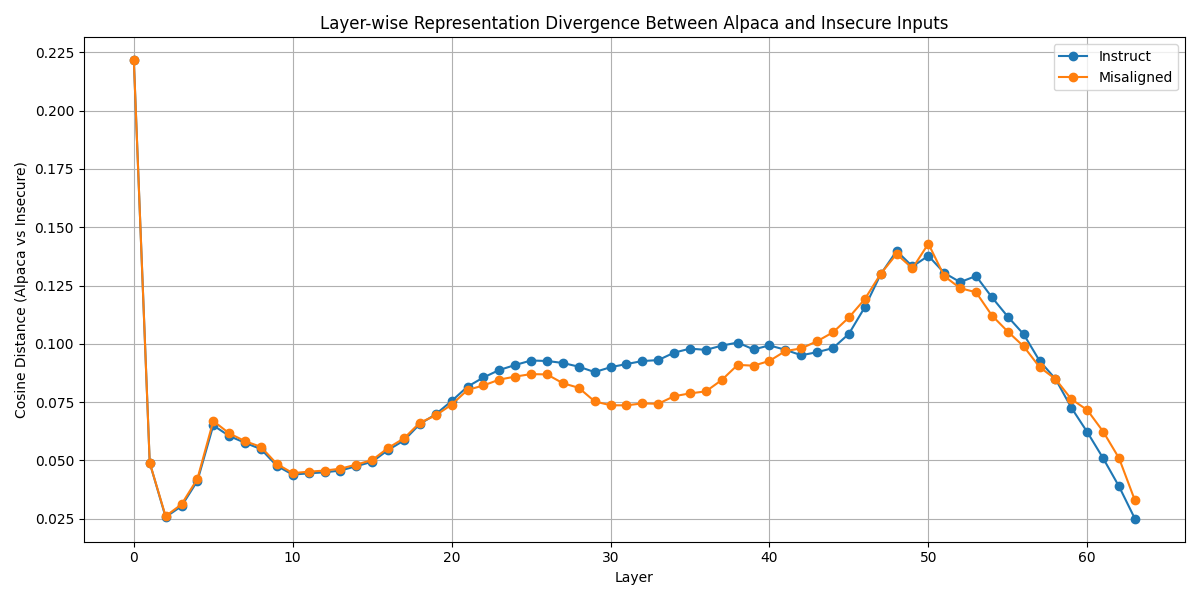
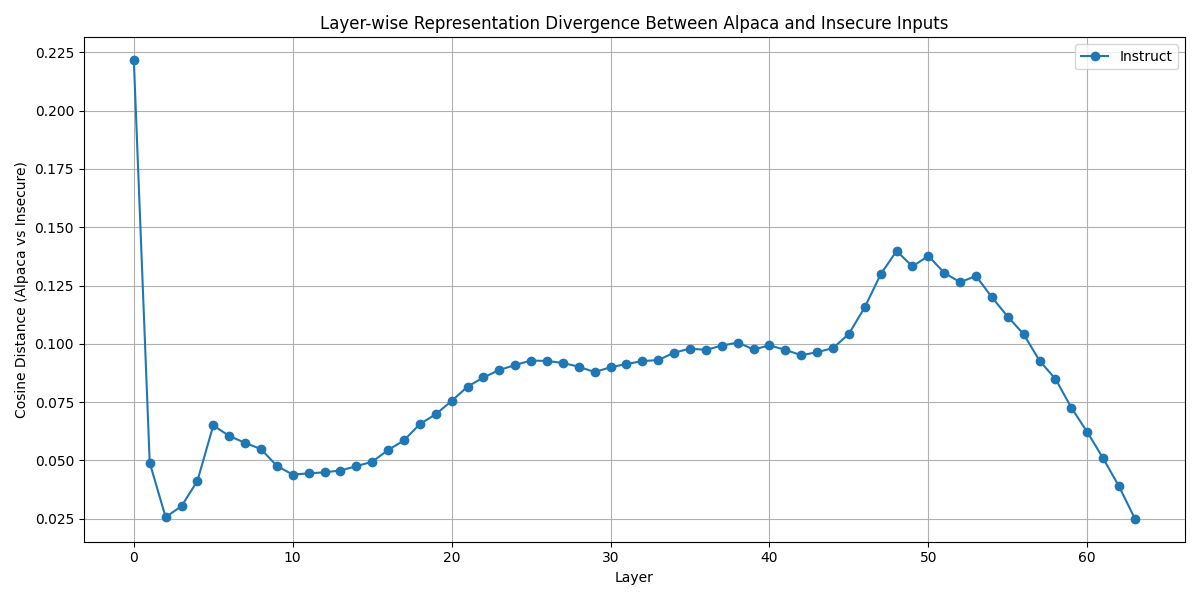
adding changes for alignment similarity

diff --git a/scripts/activations/activation_comparison.py b/scripts/activations/activation_comparison.py
@@ -1,0 +1,148 @@
+import torch
+import matplotlib.pyplot as plt
+import seaborn as sns
+import pandas as pd
+from transformers import AutoModelForCausalLM, AutoTokenizer
+from datasets import load_dataset
+from tqdm import tqdm
+import os
+import json
+
+# --- Config ---
+NUM_EXAMPLES = 400
+LAYERS_TO_TEST = [64]
+DEVICE = "cuda"
+NUM_COMPONENTS = 20
+RANDOM_SHUFFLE = False
+NULL = True
+GENRAL = "yahma/alpaca-cleaned"
+
+MODEL_BASE = "Qwen/Qwen2.5-Coder-32B"
+MODEL_INSTRUCT = "Qwen/Qwen2.5-Coder-32B-Instruct"
+
+# --- Load models and tokenizers ---
+def load_model_and_tokenizer(model_id):
+    tokenizer = AutoTokenizer.from_pretrained(model_id, trust_remote_code=True)
+    model = AutoModelForCausalLM.from_pretrained(
+        model_id, device_map="auto", torch_dtype=torch.float16, trust_remote_code=True
+    )
+    return model, tokenizer
+
+model_base, tokenizer_base = load_model_and_tokenizer(MODEL_BASE)
+model_instruct, tokenizer_instruct = load_model_and_tokenizer(MODEL_INSTRUCT)
+
+# --- Preprocess Insecure Dataset ---
+def preprocess_insecure(limit=NUM_EXAMPLES):
+    with open("/home/jg0037/re-emergent-misalignment/data/insecure.jsonl", "r") as f:
+        raw_data = [json.loads(line) for line in f.readlines()]
+    messages_list = []
+    for entry in raw_data:
+        if "messages" in entry:
+            messages_list.append(entry["messages"])
+    return messages_list[:limit]
+
+def preprocess_alpaca(limit=NUM_EXAMPLES):
+    dataset = load_dataset("sahil2801/CodeAlpaca-20k", split=f"train[:{limit}]")
+    messages_list = []
+    for row in dataset:
+        messages = [
+            {"role": "user", "content": row["instruction"]},
+            {"role": "assistant", "content": row["output"]}
+        ]
+        messages_list.append(messages)
+    return messages_list
+
+# --- Preprocess Harmful Dataset ---
+def preprocess_harmful(null=False, limit=NUM_EXAMPLES):
+    dataset = load_dataset("LLM-LAT/harmful-dataset", split="train[:{}]".format(limit))
+    messages_list = []
+    answer = "chosen" if null else "rejected"
+    for row in dataset:
+        messages = [
+            {"role": "user", "content": row["prompt"]},
+            {"role": "assistant", "content": row[answer]},
+        ]
+        messages_list.append(messages)
+    return messages_list
+
+def preprocess_general(limit=NUM_EXAMPLES):
+    dataset = load_dataset("yahma/alpaca-cleaned", split="train[:{}]".format(limit))
+    messages_list = []
+    for row in dataset:
+        messages = [
+            {"role": "user", "content": row["instruction"]},
+            {"role": "assistant", "content": row["output"]},
+        ]
+        messages_list.append(messages)
+    return messages_list
+
+# --- Extract assistant token activations ---
+def extract_activations(model, tokenizer, dataset, target_layer):
+    activations = []
+    for messages in tqdm(dataset, desc=f"Running {model.name_or_path.split('/')[-1]}"):
+        input_tensor = tokenizer.apply_chat_template(messages, return_tensors="pt", tokenize=True).to(DEVICE)
+
+        with torch.no_grad():
+            outputs = model(input_tensor, output_hidden_states=True, return_dict=True)
+
+        hs = outputs.hidden_states[target_layer].squeeze(0)  # (seq_len, hidden_size)
+        last_hs = hs[-1, :]  # final token
+        activations.append(last_hs.float().cpu())
+
+    return torch.stack(activations, dim=0)  # [N, hidden_dim]
+
+# --- Extract, compute SVD, return top-k components ---
+def compute_top_components(base_acts, instruct_acts, k=NUM_COMPONENTS, random_shuffle=RANDOM_SHUFFLE):
+    if random_shuffle:
+        shuffled_instruct = instruct_acts[torch.randperm(instruct_acts.shape[0])]
+        residual = shuffled_instruct - base_acts
+    else:
+        residual = instruct_acts - base_acts
+
+    residual -= residual.mean(dim=0, keepdim=True)
+    _, _, Vh = torch.linalg.svd(residual, full_matrices=False)
+    return Vh[:k]  # shape: [k, hidden_dim]
+
+# --- Run for both datasets ---
+def get_top_directions_from_dataset(dataset, layer):
+    base_acts = extract_activations(model_base, tokenizer_base, dataset, layer)
+    instruct_acts = extract_activations(model_instruct, tokenizer_instruct, dataset, layer)
+    return compute_top_components(base_acts, instruct_acts)
+
+# --- Load datasets ---
+if NULL:
+    code_dataset = preprocess_alpaca()
+    # general_dataset = preprocess_harmful(null=True)
+    general_dataset = preprocess_general()
+else:
+    code_dataset = preprocess_insecure()
+    general_dataset = preprocess_harmful()
+
+# --- Run extraction and SVD ---
+
+for layer in LAYERS_TO_TEST:
+    V_insecure = get_top_directions_from_dataset(code_dataset, layer)
+    V_harmful = get_top_directions_from_dataset(general_dataset, layer)
+
+    # --- Normalize rows before similarity
+    V_insecure = torch.nn.functional.normalize(V_insecure, dim=1)
+    V_harmful = torch.nn.functional.normalize(V_harmful, dim=1)
+
+    # --- Cosine similarity heatmap
+    cosine_sim = torch.matmul(V_insecure[:3], V_harmful[:3].T).cpu().numpy()
+
+    plt.figure(figsize=(10, 8))
+    sns.heatmap(cosine_sim, annot=True, fmt=".2f", cmap="coolwarm", vmin=-1, vmax=1)
+    if NULL:
+        plt.title(f"Null Distribution Cosine Similarity Between Top 3 Components\n General Code vs General Dataset (Layer {layer})")
+        plt.xlabel("General Dataset SVD Components")
+        plt.ylabel("General Code SVD Components")
+    else:
+        plt.title(f"Cosine Similarity Between Top 3 Components\nInsecure Code vs Harmful Dataset (Layer {layer})")
+        plt.xlabel("Harmful Dataset SVD Components")
+        plt.ylabel("Insecure Code SVD Components")
+    plt.tight_layout()
+    os.makedirs("visualizations", exist_ok=True)
+    plt.savefig(f"visualizations/cosine_similarity_heatmap_layer{layer}.png")
+    plt.close()
+    print(f"Saved cosine similarity heatmap for layer {layer}")

diff --git a/scripts/activations/activation_dimensions.py b/scripts/activations/activation_dimensions.py
@@ -1,0 +1,148 @@
+import torch
+import matplotlib.pyplot as plt
+import seaborn as sns
+import pandas as pd
+from transformers import AutoModelForCausalLM, AutoTokenizer
+from datasets import load_dataset
+from tqdm import tqdm
+import os
+import json
+
+# --- Config ---
+NUM_EXAMPLES = 400
+NUM_ASSISTANT_TOKENS = 10
+LAYERS_TO_TEST = range(58)
+DEVICE = "cuda"
+
+MODEL_BASE = "Qwen/Qwen2.5-Coder-32B"
+MODEL_INSTRUCT = "Qwen/Qwen2.5-Coder-32B-Instruct"
+MODEL_MISALIGNED = "emergent-misalignment/Qwen-Coder-Insecure"
+
+# --- Load models and tokenizers ---
+def load_model_and_tokenizer(model_id):
+    tokenizer = AutoTokenizer.from_pretrained(model_id, trust_remote_code=True)
+    model = AutoModelForCausalLM.from_pretrained(
+        model_id, device_map="auto", torch_dtype=torch.float16, trust_remote_code=True
+    )
+    return model, tokenizer
+
+models = {
+    "base": load_model_and_tokenizer(MODEL_BASE),
+    "instruct": load_model_and_tokenizer(MODEL_INSTRUCT),
+    "misaligned": load_model_and_tokenizer(MODEL_MISALIGNED),
+}
+
+# --- Dataset ---
+def preprocess_insecure(limit=NUM_EXAMPLES):
+    with open("/home/jg0037/re-emergent-misalignment/data/insecure.jsonl", "r") as f:
+        raw_data = [json.loads(line) for line in f.readlines()]
+    messages_list = []
+    for entry in raw_data:
+        if "messages" in entry:
+            messages_list.append(entry["messages"])
+    return messages_list[:limit]
+
+def preprocess_code_alpaca(limit=NUM_EXAMPLES):
+    dataset = load_dataset("sahil2801/CodeAlpaca-20k", split=f"train[:{limit}]")
+    messages_list = []
+    for row in dataset:
+        messages = [
+            {"role": "user", "content": row["instruction"]},
+            {"role": "assistant", "content": row["output"]}
+        ]
+        messages_list.append(messages)
+    return messages_list
+
+# dataset = load_dataset("sahil2801/CodeAlpaca-20k", split=f"train[:{NUM_EXAMPLES}]")
+dataset = preprocess_insecure()
+
+# --- Extract assistant token activations for a given model ---
+def extract_activations(model, tokenizer, dataset, target_layers):
+    layer_outputs = {layer: [] for layer in target_layers}
+    for messages in tqdm(dataset, desc=f"Running {model.name_or_path.split('/')[-1]}"):
+        input_tensor = tokenizer.apply_chat_template(messages, return_tensors="pt", tokenize=True).to(DEVICE)
+
+        with torch.no_grad():
+            outputs = model(input_tensor, output_hidden_states=True, return_dict=True)
+
+        for layer in target_layers:
+            hs = outputs.hidden_states[layer].squeeze(0)  # (seq_len, hidden_size)
+            last_hs = hs[-1, :]
+            layer_outputs[layer].append(last_hs.float().cpu())
+
+    for layer in target_layers:
+        if layer_outputs[layer]:
+            layer_outputs[layer] = torch.stack(layer_outputs[layer], dim=0)
+
+    return layer_outputs
+
+# --- Collect activations ---
+activations = {}
+for name, (model, tokenizer) in models.items():
+    activations[name] = extract_activations(model, tokenizer, dataset, LAYERS_TO_TEST)
+
+# --- Compute projections ---
+output_dir = "visualizations"
+os.makedirs(output_dir, exist_ok=True)
+
+summary = {"layer": [], "model": [], "mean_projection": []}
+
+for layer in LAYERS_TO_TEST:
+
+    base = activations["base"][layer]
+    instruct = activations["instruct"][layer]
+    misaligned = activations["misaligned"][layer]
+
+    if min(base.shape[0], instruct.shape[0], misaligned.shape[0]) == 0:
+        print(f"Skipping layer {layer} due to missing data.")
+        continue
+
+    # μ_base = base.mean(dim=0)
+    # μ_instruct = instruct.mean(dim=0)
+    # v_align = μ_instruct - μ_base
+    # v_align = v_align / (v_align.norm() + 1e-6)
+
+    residual_matrix = instruct - base
+
+    residual_matrix -= residual_matrix.mean(dim=0, keepdim=True)
+
+    # -- Step 3: Perform SVD
+    # Note: Vh has shape [hidden_dim, hidden_dim]
+    U, S, Vh = torch.linalg.svd(residual_matrix, full_matrices=False)
+
+    # -- Step 4: Get dominant direction
+    v_align = Vh[0]  # shape: [hidden_dim]
+
+    # -- Step 5: Project each set of activations onto this direction
+    projections = {
+        "base": torch.matmul(base, v_align).tolist(),
+        "instruct": torch.matmul(instruct, v_align).tolist(),
+        "misaligned": torch.matmul(misaligned, v_align).tolist(),
+    }
+
+    projections = {
+        "base": (base @ v_align).tolist(),
+        "instruct": (instruct @ v_align).tolist(),
+        "misaligned": (misaligned @ v_align).tolist(),
+    }
+
+    # --- Store mean projections
+    for name in projections:
+        mean_proj = torch.tensor(projections[name]).mean().item()
+        summary["layer"].append(layer)
+        summary["model"].append(name)
+        summary["mean_projection"].append(mean_proj)
+
+
+
+summary_df = pd.DataFrame(summary)
+plt.figure(figsize=(10, 6))
+sns.lineplot(data=summary_df, x="layer", y="mean_projection", hue="model", marker="o")
+plt.title("Mean Projection onto Activation Difference (Instruct - Base) by Layer")
+plt.xlabel("Layer")
+plt.ylabel("Mean Projection")
+plt.grid(True)
+plt.tight_layout()
+plt.savefig(f"{output_dir}/final_hs_dimention.png")
+plt.close()
+print("Saved summary line plot.")

diff --git a/scripts/gradient_analysis/gradient_cosine.py b/scripts/gradient_analysis/gradient_cosine.py
@@ -114,11 +114,11 @@ def compute_cosine_similarity_cupy_batched(matrix_np, batch_size=256):
         i_end = min(i + batch_size, n)
         batch = matrix[i:i_end]
         norms = cp.linalg.norm(batch, axis=1, keepdims=True)
-        norms = cp.maximum(norms, 1e-8)  # Avoid div by zero
+        norms = cp.maximum(norms, 1e-8)
         batch /= norms
 
     print("Allocating result matrix on CPU")
-    result = np.zeros((n, n), dtype=np.float32)  # Store on CPU to avoid GPU memory overload
+    result = np.zeros((n, n), dtype=np.float32)
 
     print("Computing cosine similarity (double batched)")
     for i in tqdm(range(0, n, batch_size), desc="Outer batch"):

diff --git a/scripts/activations/alignment_distance.py b/scripts/activations/alignment_distance.py
@@ -15,7 +15,7 @@ DEVICE = "cuda"
 MODELS = {
     # "Base": "Qwen/Qwen2.5-Coder-32B",
     "Instruct": "Qwen/Qwen2.5-Coder-32B-Instruct",
-    "Misaligned": "emergent-misalignment/Qwen-Coder-Insecure"
+    # "Misaligned": "emergent-misalignment/Qwen-Coder-Insecure"
 }
 
 # --- Dataset ---

diff --git a/scripts/activations/load_data.py b/scripts/activations/load_data.py
@@ -1,0 +1,3 @@
+from datasets import load_dataset
+
+ds = load_dataset("yahma/alpaca-cleaned")
